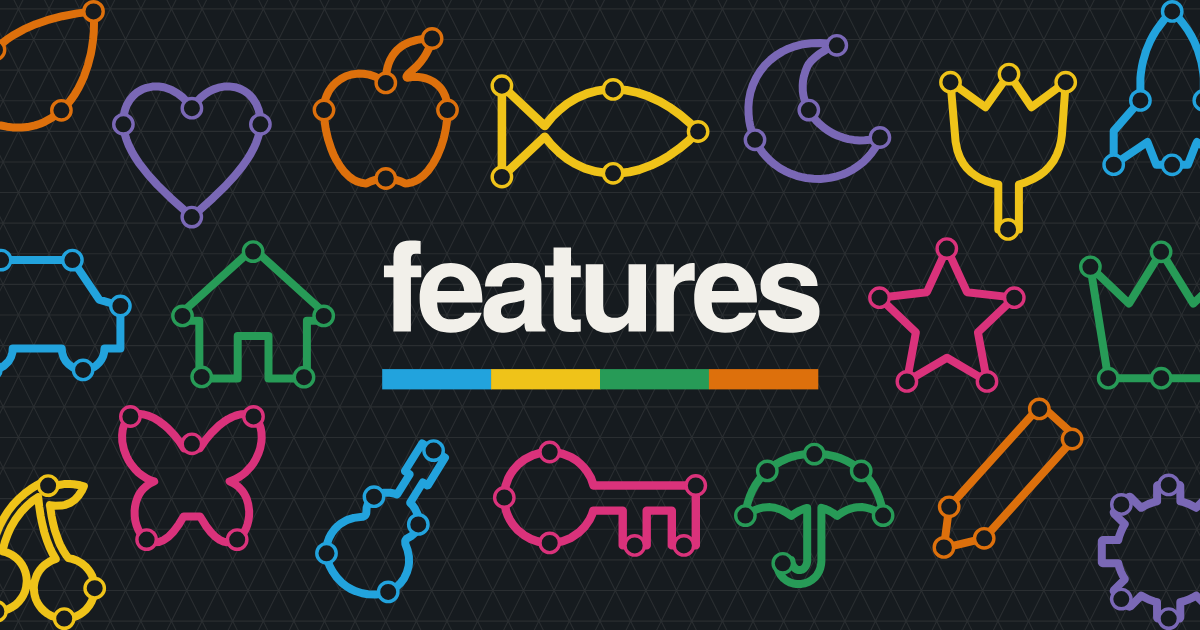
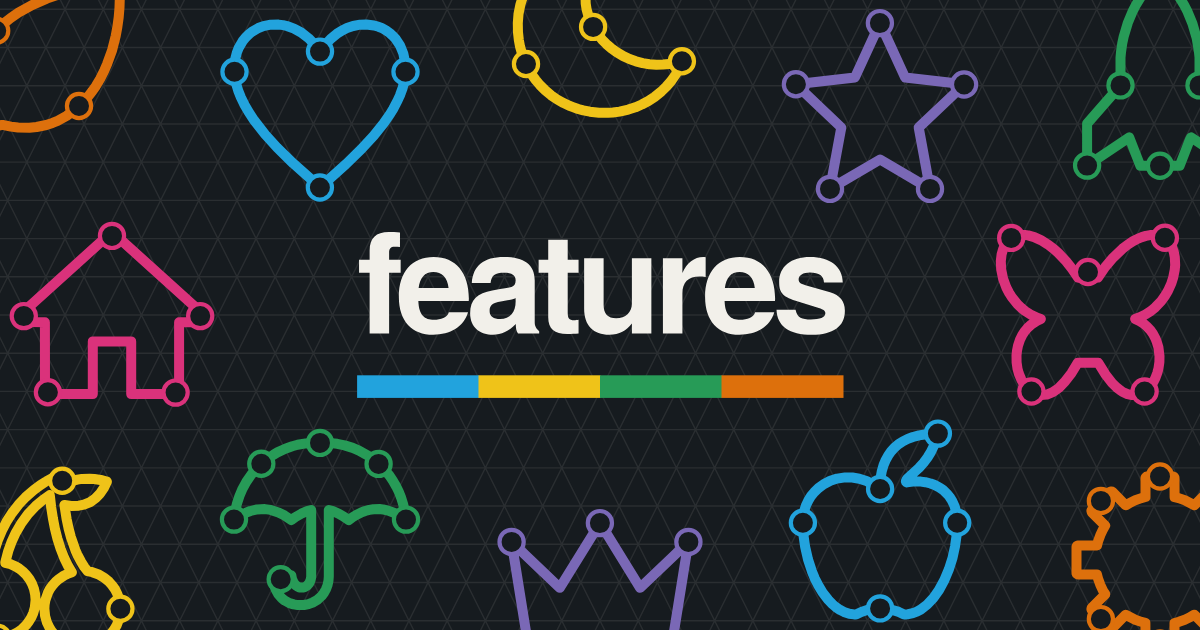
Republish features at features@51439bd — Give the Features link card room around twelve larger shapes

diff --git a/public/features/index.html b/public/features/index.html
@@ -24,7 +24,7 @@
 <meta property="og:title" content="features · a daily untangle puzzle">
 <meta property="og:description" content="six small boards a day. free to play.">
 <meta property="og:url" content="https://features.games/">
-<meta property="og:image" content="https://features.games/og.png?v=brand-20261116a">
+<meta property="og:image" content="https://features.games/og.png?v=board-20261126">
 <meta property="og:image:width" content="1200">
 <meta property="og:image:height" content="630">
 <meta property="og:image:type" content="image/png">
@@ -32,7 +32,7 @@
 <meta name="twitter:card" content="summary_large_image">
 <meta name="twitter:title" content="features · a daily untangle puzzle">
 <meta name="twitter:description" content="six small boards a day. free to play.">
-<meta name="twitter:image" content="https://features.games/og.png?v=brand-20261116a">
+<meta name="twitter:image" content="https://features.games/og.png?v=board-20261126">
 <meta http-equiv="Content-Security-Policy" content="default-src 'self'; script-src 'self' 'sha256-0g291wJxP0JKDRbLlBF0HiU8XoxTcukjDAUa49hNE/U=' 'sha256-M5pfsEJViORO0ZEB6nUYm0yvoPJGT/RMbRI81TlVMBc=' 'sha256-a2TI4GuV/Dhj9ASXoc3uGbS3t9iFuFDpVJc8jfW+H2I=' 'sha256-fTOl1h5nqGV+h6eLHP2qBEj1dSRM2IYDHrNSyGxmGmw=' 'sha256-qVo3tUpKJLWM5ixazsI5NZaNkcbBG2X6ftOXlfVMotU=' https://js.stripe.com; worker-src 'self' blob:; style-src 'self' 'unsafe-inline'; img-src 'self' data:; font-src 'self' data:; connect-src 'self' https://api.stripe.com; frame-src https://js.stripe.com https://checkout.stripe.com https://hooks.stripe.com; base-uri 'none'; object-src 'none'; form-action 'self'">
 <link rel="icon" type="image/x-icon" sizes="32x32" href="favicon.ico?v=3ffa992228ee">
 <link rel="icon" type="image/png" sizes="32x32" href="favicon-32.png?v=3ffa992228ee">

diff --git a/public/features/how-to-play.html b/public/features/how-to-play.html
@@ -15,7 +15,7 @@
 <meta property="og:title" content="how to play features · a daily untangle puzzle">
 <meta property="og:description" content="move the dots until no two lines cross: six small boards to untangle each day, with stamps to collect along the way.">
 <meta property="og:url" content="https://features.games/how-to-play">
-<meta property="og:image" content="https://features.games/og.png?v=brand-20261116a">
+<meta property="og:image" content="https://features.games/og.png?v=board-20261126">
 <meta property="og:image:width" content="1200">
 <meta property="og:image:height" content="630">
 <meta property="og:image:type" content="image/png">

diff --git a/public/features/like-wordle.html b/public/features/like-wordle.html
@@ -15,7 +15,7 @@
 <meta property="og:title" content="a daily puzzle like wordle, with no words · features">
 <meta property="og:description" content="six small boards of dots and lines to untangle each day, the same for everyone, and no words to guess.">
 <meta property="og:url" content="https://features.games/like-wordle">
-<meta property="og:image" content="https://features.games/og.png?v=brand-20261116a">
+<meta property="og:image" content="https://features.games/og.png?v=board-20261126">
 <meta property="og:image:width" content="1200">
 <meta property="og:image:height" content="630">
 <meta property="og:image:type" content="image/png">

diff --git a/public/features/like-planarity.html b/public/features/like-planarity.html
@@ -15,7 +15,7 @@
 <meta property="og:title" content="an untangle game like planarity, every day · features">
 <meta property="og:description" content="six boards a day of dots and lines to move until no lines cross, with colours, stamps and grades.">
 <meta property="og:url" content="https://features.games/like-planarity">
-<meta property="og:image" content="https://features.games/og.png?v=brand-20261116a">
+<meta property="og:image" content="https://features.games/og.png?v=board-20261126">
 <meta property="og:image:width" content="1200">
 <meta property="og:image:height" content="630">
 <meta property="og:image:type" content="image/png">

diff --git a/public/features/press.html b/public/features/press.html
@@ -15,7 +15,7 @@
 <meta property="og:title" content="features · press">
 <meta property="og:description" content="facts, words and pictures for writing about features, a daily puzzle: six small boards to untangle each day.">
 <meta property="og:url" content="https://features.games/press">
-<meta property="og:image" content="https://features.games/og.png?v=brand-20261116a">
+<meta property="og:image" content="https://features.games/og.png?v=board-20261126">
 <meta property="og:image:width" content="1200">
 <meta property="og:image:height" content="630">
 <meta property="og:image:type" content="image/png">

diff --git a/public/features/legal.html b/public/features/legal.html
@@ -12,7 +12,7 @@
 <meta property="og:title" content="features · terms and privacy">
 <meta property="og:description" content="the terms for playing features, and what it keeps about you.">
 <meta property="og:url" content="https://features.games/legal">
-<meta property="og:image" content="https://features.games/og.png?v=brand-20261116a">
+<meta property="og:image" content="https://features.games/og.png?v=board-20261126">
 <meta property="og:image:width" content="1200">
 <meta property="og:image:height" content="630">
 <meta property="og:image:type" content="image/png">
